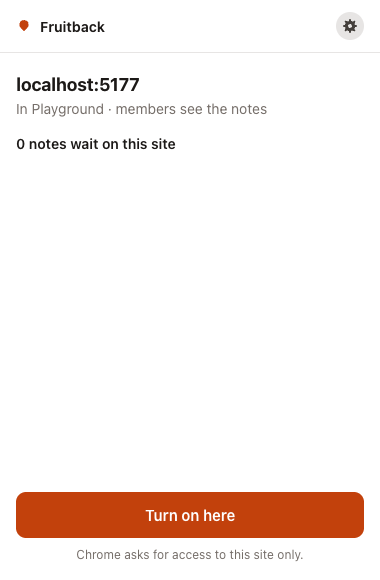
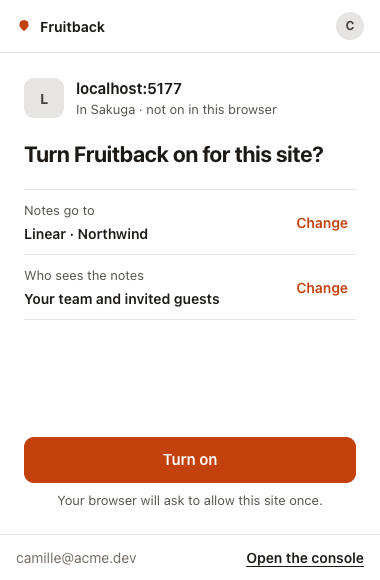
docs: the reviewer's guide shows the popup « Turn Fruitback on for this site? » and the composer of today
- docs/assets/guide-turn-on.png: screen 2 of the popup of FRU-298, signed
  in with an account, on a site of a workspace (from popup-new-site).
- docs/assets/step-write.png: the composer of FRU-305 and the dock of
  FRU-303, from the playground.
- docs/decisions/image.md: where each capture comes from now, and the
  pointer moved off what was pressed before a capture.

diff --git a/docs/decisions/image.md b/docs/decisions/image.md
@@ -387,10 +387,13 @@ What it took was mostly measuring, because four things the documentation said we
 ### The rules, in short
 
 - **A step a reader acts on has its picture**, taken from the build of the day, in the light scheme.
-  `docs/reviewing.md` shows the welcome page, the signed-out popup, the word on both sides, « Turn
-  on here » and a note being written; `docs/install.md` shows the card of the script. The captures
-  are cut from the e2e specs that already reach each state (`popup-sign-in`, `console-connect`,
-  `popup-workspace`, `extension-welcome`): take them again from there when a screen changes.
+  `docs/reviewing.md` shows the welcome page, the signed-out popup, the word on both sides, the popup
+  that asks to turn a site on, and a note being written; `docs/install.md` shows the card of the
+  script. The captures are cut from the e2e specs that already reach each state (`popup-sign-in`, `console-connect`,
+  `popup-new-site` for « Turn Fruitback on for this site? » with an account, `extension-welcome`, and
+  the composer of the playground for the note): take them again from there when a screen changes.
+  Before a capture, move the pointer off what was pressed: a button under it is drawn in its hover
+  colour.
 - **The colours of code blocks and quotes are ours, not the theme's.** `docs/assets/css/style.scss`
   imports `jekyll-theme-primer` and overrides the Rouge palette and `blockquote`. Each colour holds
   4.5:1 at least on `#f6f8fa` and `#f4f4f4`.
